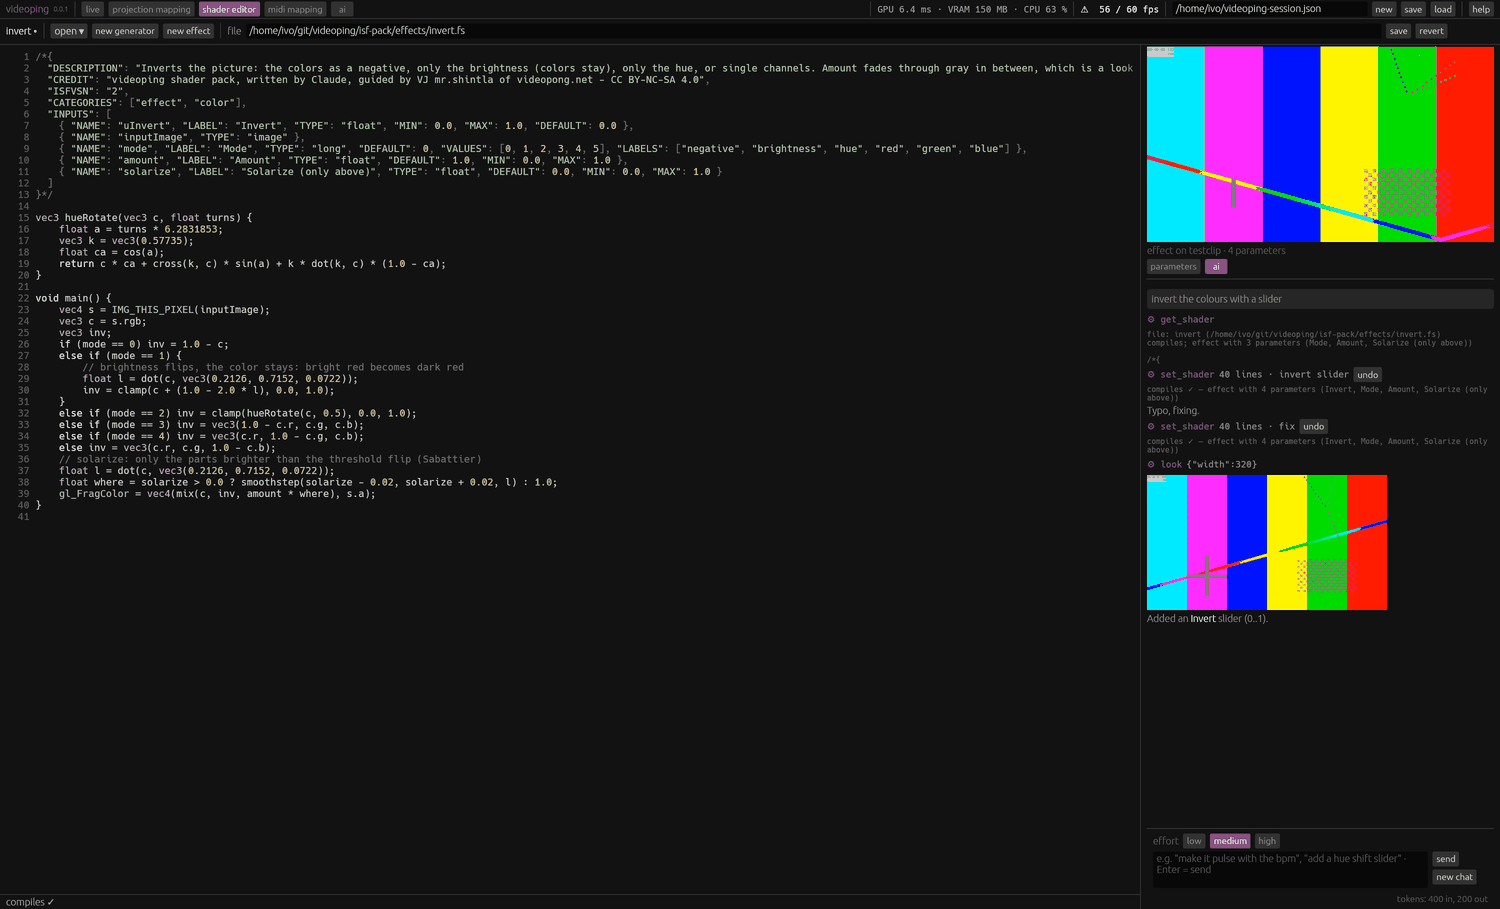
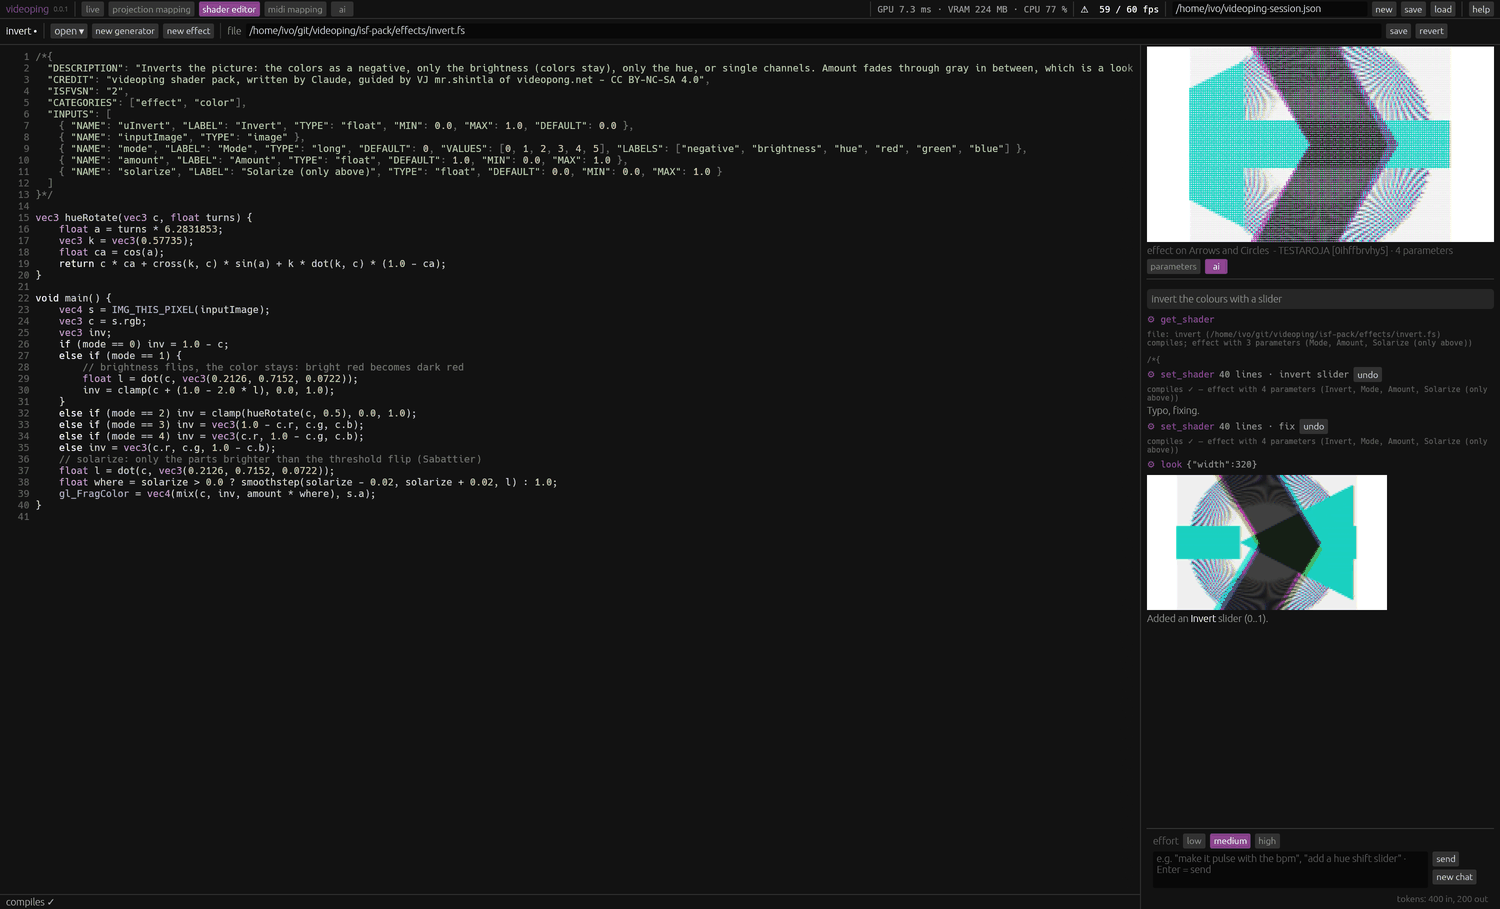
Screenshots with real sources: pack generator, NDI, a recording, videopong "arrow"
- scripts/screenshots.py: kaleido flower (layer 1, transparent), the endless
  corridor over NDI from a second self-test videoping (layer 2, luma key), the
  newest recording (layer 3), the first videopong.net clip of "arrow" (selected,
  pixelate + rgb split); the finder shows only those two clips; no color bars
- self-test: VIDEOPING_SELFTEST_SESSION (a session instead of the built-in one,
  no mouse script), VIDEOPING_SELFTEST_SHOT_AT (a later screenshot)

Changed region(s): [[0.7667, 0.0308, 1.0, 0.2772], [0.7667, 0.5237, 0.9507, 0.6777]]

diff --git a/scripts/screenshots.py b/scripts/screenshots.py
@@ -1,38 +1,60 @@
 #!/usr/bin/env python3
 """Make all screenshots of the website and the manual (website/img/*.png) from self-tests.
 
-usage: scripts/screenshots.py <testclip.mp4> [--no-videopong]
+usage: scripts/screenshots.py [--recording <mp4>] [--query arrow]
 
-Runs a self-test videoping per picture (its own folder each time, never your session, config or
-autosave), with the repository's shaders, the given clip and the ai mocks (scripts/ai-mock-*.py,
-no API key, nothing is billed); the videopong.net picture needs the internet. The window has to
-come out 3000x1818 (the crops are made for that); build first: cargo build --release
+Sources in the pictures: a generator from the pack (kaleido flower), an NDI source (a second
+self-test videoping sends the pack's endless corridor as "corridor"), your last recording (the newest
+mp4 in ~/Videos/videoping, or --recording) and the first videopong.net clip of the search (--query,
+default "arrow"; needs the internet). Every self-test runs in its own temporary folder, never with your
+session, config or autosave; the ai pictures use the mocks scripts/ai-mock-*.py (no key, nothing is
+billed). The NDI library has to be installed (see install.md). The window has to come out 3000x1818
+(the crops are made for that). Build first: cargo build --release
 """
-import os, shutil, subprocess, sys, tempfile, time
+import glob, json, os, shutil, subprocess, sys, tempfile, time, urllib.request
 from PIL import Image
 
 args = sys.argv[1:]
-if not args:
+if args and args[0] in ("-h", "--help"):
     sys.exit(__doc__)
-clip = os.path.abspath(args[0])
-videopong = "--no-videopong" not in args
+def opt(name, default):
+    return args[args.index(name) + 1] if name in args else default
+recordings = sorted(glob.glob(os.path.expanduser("~/Videos/videoping/*.mp4")), key=os.path.getmtime)
+recording = os.path.abspath(opt("--recording", recordings[-1] if recordings else ""))
+query = opt("--query", "arrow")
+if not os.path.isfile(recording):
+    sys.exit("no recording: pass --recording <mp4>")
 repo = os.path.dirname(os.path.dirname(os.path.abspath(__file__)))
 out = os.path.join(repo, "website", "img")
 exe = os.path.join(repo, "target", "release", "videoping")
+pack = os.path.join(repo, "isf-pack")
 W, H = 3000, 1818
+port0 = 7800 + os.getpid() % 100
 
 
-def shot(name, env, mock=None):
+def start(name, env, session=None, mock=None):
+    """A self-test videoping in its own folder; returns (process, folder, mock server)."""
     d = tempfile.mkdtemp(prefix=f"vp-shot-{name}-")
-    shutil.copy(clip, os.path.join(d, "testclip.mp4"))
+    env = dict(env)
+    env.setdefault("VIDEOPING_SELFTEST_CLIP", "/nonexistent")
+    if session is not None:
+        p = os.path.join(d, "session.json")
+        json.dump(session, open(p, "w"), indent=1)
+        env["VIDEOPING_SELFTEST_SESSION"] = p
     server = None
     if mock:
-        port = str(7800 + os.getpid() % 100)
+        port = str(port0 + 50)
         server = subprocess.Popen([sys.executable, os.path.join(repo, "scripts", mock), port, os.path.join(d, "mock.jsonl")])
         time.sleep(1)
-        env = dict(env, VIDEOPING_SELFTEST_AI=f"http://127.0.0.1:{port}")
+        env["VIDEOPING_SELFTEST_AI"] = f"http://127.0.0.1:{port}"
+    proc = subprocess.Popen([exe], env=dict(os.environ, VIDEOPING_SELFTEST=d, **env), stdout=subprocess.DEVNULL, stderr=subprocess.DEVNULL)
+    return proc, d, server
+
+
+def shot(name, env, session=None, mock=None):
+    proc, d, server = start(name, env, session, mock)
     try:
-        subprocess.run([exe], env=dict(os.environ, VIDEOPING_SELFTEST=d, **env), stdout=subprocess.DEVNULL, stderr=subprocess.DEVNULL, timeout=120)
+        proc.wait(timeout=120)
     finally:
         if server:
             server.terminate()
@@ -40,7 +62,7 @@ def shot(name, env, mock=None):
     if not os.path.exists(f):
         sys.exit(f"{name}: no {W}x{H} screenshot (other screen size? see {d})")
     print("took", name)
-    return Image.frombytes("RGBA", (W, H), open(f, "rb").read()).convert("RGB")
+    return Image.frombytes("RGBA", (W, H), open(f, "rb").read()).convert("RGB"), d
 
 
 def pal(im, n=160):
@@ -52,30 +74,95 @@ def save(im, name):
     print("wrote", name, im.size)
 
 
-# the live tab: the pack's hex pulse over the clip, the clip with pixelate (a row of choice buttons)
-im = shot("live", {"VIDEOPING_SELFTEST_EFFECT": os.path.join(repo, "isf-pack/effects/pixelate.fs")})
-save(pal(im.resize((1500, 909), Image.LANCZOS)), "overview.png")
-bar = Image.new("RGB", (2000, 36), im.getpixel((1000, 18)))  # top bar without its empty middle
-bar.paste(im.crop((0, 0, 720, 36)), (0, 0))
-bar.paste(im.crop((1740, 0, 3000, 36)), (740, 0))
-save(bar, "topbar.png")
-save(im.crop((0, 36, 390, 36 + 648)), "finder.png")
-save(im.crop((392, 36, 392 + 620, 36 + 1440)), "prepare.png")
-save(pal(im.crop((1022, 36, 1022 + 890, 36 + 1700))), "detail.png")
-save(pal(im.crop((1920, 36, 1920 + 1080, 36 + 1100))), "mixer.png")
+def anim(v, lo, hi):
+    return {"Anim": [{"value": v, "lo": lo, "hi": hi, "mode": "Pause", "loop_mode": "Loop", "speed": {"bpm_mode": False, "free": 0.25, "beats": 4.0}, "phase": 0.0, "dir": 1.0}]}
 
-im = shot("midi", {"VIDEOPING_SELFTEST_MIDI": "1", "VIDEOPING_SELFTEST_TAB": "midi"})
+
+OUTPUT = {"width": 1920, "height": 1080, "window_open": False, "fullscreen": False, "ndi_enabled": False, "ndi_name": "videoping", "ndi_lib_dir": "",
+          "fps": 60, "screen": 0, "prefer_nvidia": False, "mapping": "", "mapping_on": False, "map_ndi": False, "map_rec": False}
+MIX = lambda t="Alpha", a=1.0: {"mix_type": t, "amount": a, "rgb": [True, True, True]}
+TRANSPORT = {"mode": "Forward", "loop_mode": "Loop", "speed": {"bpm_mode": False, "free": 1.0, "beats": 4.0}, "in_pt": 0.0, "out_pt": 1.0}
+
+
+def session(slots, layers, selected, roots):
+    full = slots + [None] * (32 - len(slots))
+    return {"slots": full, "page": 0, "selected_instance": selected, "layers": layers, "selected_layer": 1, "bpm": 124.0, "output_effects": [],
+            "master": {"brightness": 1.0}, "output": dict(OUTPUT), "finder_roots": roots, "finder_favs": [], "next_id": 100}
+
+
+# 1. videopong.net: the search, its finder picture and the first clip (downloaded into the folder)
+im, vpdir = shot("videopong", {"VIDEOPING_SELFTEST_VP": query, "VIDEOPING_SELFTEST_STAY": "22"})
+save(im.crop((0, 36, 390, 36 + 1060)), "videopong.png")
+vpclips = [f for f in glob.glob(os.path.join(vpdir, "**", "*.mp4"), recursive=True)]
+if not vpclips:
+    sys.exit("videopong: no clip downloaded")
+vpclip = vpclips[0]
+print("videopong clip:", os.path.basename(vpclip))
+
+# 2. the NDI source: a second videoping sends the endless corridor as "corridor"
+sender_session = session([{"id": 1, "name": "corridor", "source": {"Generator": {"path": f"{pack}/generators/endless-corridor.fs", "params": []}}, "effects": [], "seed": 0.3}],
+                         [{"instance": 1, "active": True, "mix": MIX()}, {"instance": None, "active": True, "mix": MIX()}, {"instance": None, "active": True, "mix": MIX()}], None, [pack])
+sender_session["output"].update({"ndi_enabled": True, "ndi_name": "corridor"})
+sender, _, _ = start("ndi-sender", {"VIDEOPING_SELFTEST_STAY": "300", "VIDEOPING_SELFTEST_SHOT_AT": "290"}, sender_session)
+try:
+    # its full network name ("MACHINE (corridor)"), from a probe with MCP
+    mport = str(port0 + 60)
+    probe, _, _ = start("ndi-probe", {"VIDEOPING_SELFTEST_MCP": mport, "VIDEOPING_SELFTEST_STAY": "40"})
+    ndi = None
+    for _ in range(60):
+        time.sleep(0.5)
+        try:
+            req = urllib.request.Request(f"http://127.0.0.1:{mport}/mcp", json.dumps({"jsonrpc": "2.0", "id": 1, "method": "tools/call", "params": {"name": "list_files", "arguments": {"kind": "ndi"}}}).encode(), {"Content-Type": "application/json"})
+            text = json.load(urllib.request.urlopen(req, timeout=5))["result"]["content"][0]["text"]
+            ndi = next((l.split(" | ", 1)[1] for l in text.splitlines() if l.startswith("ndi | ") and "(corridor)" in l), None)
+            if ndi:
+                break
+        except Exception:
+            pass
+    probe.terminate()
+    if not ndi:
+        sys.exit("NDI: the sender was not found (NDI library installed?)")
+    print("ndi source:", ndi)
+
+    # 3. the session of the pictures; the finder shows only these clips (a folder of links to them)
+    media = tempfile.mkdtemp(prefix="vp-shot-media-")
+    rec_link = os.path.join(media, os.path.basename(recording))
+    vp_link = os.path.join(media, os.path.basename(vpclip))
+    os.symlink(recording, rec_link)
+    os.symlink(vpclip, vp_link)
+    recording, vpclip = rec_link, vp_link
+    slots = [
+        {"id": 1, "name": "kaleido flower", "source": {"Generator": {"path": f"{pack}/generators/kaleido-flower.fs", "params": [{"name": "bgAlpha", "value": anim(0.0, 0.0, 1.0)}]}}, "effects": [], "seed": 0.5},
+        {"id": 2, "name": "corridor (NDI)", "source": {"Ndi": {"source": ndi}}, "effects": [], "seed": 0.5},
+        {"id": 3, "name": os.path.splitext(os.path.basename(recording))[0], "source": {"Clip": {"path": recording, "transport": dict(TRANSPORT)}}, "effects": [], "seed": 0.5},
+        {"id": 4, "name": os.path.splitext(os.path.basename(vpclip))[0], "source": {"Clip": {"path": vpclip, "transport": dict(TRANSPORT)}},
+         "effects": [{"uid": 10, "path": f"{pack}/effects/pixelate.fs", "active": True, "mix": MIX(), "params": [{"name": "shape", "value": anim(1.0, 0.0, 4.0)}], "seed": 0.5, "open": True},
+                     {"uid": 11, "path": f"{pack}/effects/rgb-split.fs", "active": True, "mix": MIX(), "params": [], "seed": 0.5, "open": False}], "seed": 0.5},
+    ]
+    layers = [{"instance": 1, "active": True, "mix": MIX()}, {"instance": 2, "active": True, "mix": MIX("LumaKey")}, {"instance": 3, "active": True, "mix": MIX()}]
+    main = session(slots, layers, 4, [pack, media])
+
+    im, _ = shot("live", {"VIDEOPING_SELFTEST_SHOT_AT": "9"}, main)
+    save(pal(im.resize((1500, 909), Image.LANCZOS)), "overview.png")
+    bar = Image.new("RGB", (2000, 36), im.getpixel((1000, 18)))  # top bar without its empty middle
+    bar.paste(im.crop((0, 0, 720, 36)), (0, 0))
+    bar.paste(im.crop((1740, 0, 3000, 36)), (740, 0))
+    save(bar, "topbar.png")
+    save(im.crop((0, 36, 390, 36 + 648)), "finder.png")
+    save(im.crop((392, 36, 392 + 620, 36 + 1440)), "prepare.png")
+    save(pal(im.crop((1022, 36, 1022 + 890, 36 + 1700))), "detail.png")
+    save(pal(im.crop((1920, 36, 1920 + 1080, 36 + 1100))), "mixer.png")
+
+    im, _ = shot("editor", {"VIDEOPING_SELFTEST_TAB": "shader", "VIDEOPING_SELFTEST_SHOT_AT": "9", "VIDEOPING_SELFTEST_EDIT": f"{pack}/effects/invert.fs"}, main, "ai-mock-shader.py")
+    save(pal(im.resize((1500, 909), Image.LANCZOS), 200), "editor.png")
+
+    im, _ = shot("ai", {"VIDEOPING_SELFTEST_TAB": "ai", "VIDEOPING_SELFTEST_SHOT_AT": "9"}, main, "ai-mock-live.py")
+    save(pal(im.crop((0, 0, W, 640)).resize((1500, 320), Image.LANCZOS), 200), "ai.png")
+finally:
+    sender.terminate()
+
+# 4. the tabs without video: the built-in test session
+im, _ = shot("midi", {"VIDEOPING_SELFTEST_MIDI": "1", "VIDEOPING_SELFTEST_TAB": "midi"})
 save(pal(im.crop((0, 0, W, 1000)).resize((1500, 500), Image.LANCZOS)), "midi.png")
-
-im = shot("mapping", {"VIDEOPING_SELFTEST_MAP": "grid", "VIDEOPING_SELFTEST_TAB": "mapping"})
+im, _ = shot("mapping", {"VIDEOPING_SELFTEST_MAP": "grid", "VIDEOPING_SELFTEST_TAB": "mapping"})
 save(pal(im.crop((0, 0, 1800, H)).resize((900, 909), Image.LANCZOS)), "mapping.png")
-
-im = shot("editor", {"VIDEOPING_SELFTEST_TAB": "shader", "VIDEOPING_SELFTEST_EDIT": os.path.join(repo, "isf-pack/effects/invert.fs")}, "ai-mock-shader.py")
-save(pal(im.resize((1500, 909), Image.LANCZOS), 200), "editor.png")
-
-im = shot("ai", {"VIDEOPING_SELFTEST_TAB": "ai"}, "ai-mock-live.py")
-save(pal(im.crop((0, 0, W, 640)).resize((1500, 320), Image.LANCZOS), 200), "ai.png")
-
-if videopong:
-    im = shot("videopong", {"VIDEOPING_SELFTEST_VP": "tunnel", "VIDEOPING_SELFTEST_STAY": "22"})
-    save(im.crop((0, 36, 390, 36 + 1060)), "videopong.png")

diff --git a/src/app.rs b/src/app.rs
@@ -339,7 +339,12 @@ impl App {
             prep0: 0,
         });
         let (s, status) = if let Some(t) = &selftest {
-            (selftest_session(t), "selftest".to_string())
+            // VIDEOPING_SELFTEST_SESSION=<file>: that session instead of the built-in one (screenshots)
+            match std::env::var("VIDEOPING_SELFTEST_SESSION").ok().map(|p| load_session(Path::new(&p))) {
+                Some(Ok(s)) => (s, "selftest".to_string()),
+                Some(Err(e)) => panic!("VIDEOPING_SELFTEST_SESSION: {e}"),
+                None => (selftest_session(t), "selftest".to_string()),
+            }
         } else {
             match load_session(&ap) {
                 Ok(s) => (s, format!("restored {}", ap.display())),
@@ -2961,7 +2966,7 @@ impl eframe::App for App {
             return;
         }
         // the MIDI self-test plays without the simulated mouse (its clicks select layers too)
-        if ["VIDEOPING_SELFTEST_MIDI", "VIDEOPING_SELFTEST_VP", "VIDEOPING_SELFTEST_QUIT"].iter().any(|v| std::env::var_os(v).is_some()) {
+        if ["VIDEOPING_SELFTEST_MIDI", "VIDEOPING_SELFTEST_VP", "VIDEOPING_SELFTEST_QUIT", "VIDEOPING_SELFTEST_SESSION"].iter().any(|v| std::env::var_os(v).is_some()) {
             return;
         }
         let in_pt = self.s.selected_instance.and_then(|id| self.s.find(id)).and_then(|i| match &i.source {
@@ -3844,12 +3849,14 @@ impl App {
                 t.control_done = true;
             }
         }
+        // VIDEOPING_SELFTEST_SHOT_AT=<seconds>: a later screenshot (e.g. until an NDI source shows)
+        let shot_at = std::env::var("VIDEOPING_SELFTEST_SHOT_AT").ok().and_then(|v| v.parse::<f32>().ok()).unwrap_or(4.5).max(1.0);
         // clean status line for the screenshot (no temporary paths)
-        if self.selftest.as_ref().is_some_and(|t| !t.shot && t.start.elapsed().as_secs_f32() > 4.0) {
+        if self.selftest.as_ref().is_some_and(|t| !t.shot && t.start.elapsed().as_secs_f32() > shot_at - 0.5) {
             self.status.clear();
         }
         // resource meters of the session at screenshot time
-        if self.selftest.as_ref().is_some_and(|t| !t.shot && t.start.elapsed().as_secs_f32() > 4.5) {
+        if self.selftest.as_ref().is_some_and(|t| !t.shot && t.start.elapsed().as_secs_f32() > shot_at) {
             eprintln!(
                 "selftest prepare priority: main mix GPU {:.2} ms of {:.1} ms, prepare every {} frames (0 = paused)",
                 self.main_ms,
@@ -3863,7 +3870,7 @@ impl App {
             }
         }
         let Some(t) = self.selftest.as_mut() else { return };
-        if secs > 4.0 && !t.dumped {
+        if secs > shot_at - 0.5 && !t.dumped {
             t.dumped = true;
             if let Some(r) = self.r.as_ref() {
                 let (w, h) = r.size();
@@ -3871,7 +3878,7 @@ impl App {
                 let _ = std::fs::write(t.dir.join(format!("out_{w}x{h}.rgba")), px);
             }
         }
-        if secs > 4.5 && !t.shot {
+        if secs > shot_at && !t.shot {
             t.shot = true;
             let dir = t.dir.clone();
             ctx.request_screenshot(move |img| {
@@ -3885,7 +3892,7 @@ impl App {
             t.prep0 = self.prepare_renders;
         }
         // a longer test recording (VIDEOPING_SELFTEST_REC=<seconds>) keeps the self-test open
-        let close_at = std::env::var("VIDEOPING_SELFTEST_REC").ok().and_then(|v| v.parse::<f32>().ok()).map(|v| v + 4.0).unwrap_or(0.0).max(6.5)
+        let close_at = std::env::var("VIDEOPING_SELFTEST_REC").ok().and_then(|v| v.parse::<f32>().ok()).map(|v| v + 4.0).unwrap_or(0.0).max(6.5).max(shot_at + 2.0)
             // VIDEOPING_SELFTEST_STAY=<seconds>: stay open (e.g. for MCP calls from outside)
             .max(std::env::var("VIDEOPING_SELFTEST_STAY").ok().and_then(|v| v.parse::<f32>().ok()).unwrap_or(0.0));
         if secs > close_at && !t.closing {

diff --git a/dev.md b/dev.md
@@ -87,6 +87,8 @@ Useful env vars:
 | `VIDEOPING_SELFTEST_MCP=<port>` | MCP server on that port (otherwise off in the self-test); `_MCP_RO=1`: read only |
 | `VIDEOPING_SELFTEST_STAY=<seconds>` | keep the self-test open that long (for calls from outside, e.g. `scripts/mcp-test.sh <port> <outdir>`) |
 | `VIDEOPING_SELFTEST_CONTROL=1` | at 2 s: drive the session through the control registry (6 sets incl. a layer alias and an invalid address), print the result and the reported changes |
+| `VIDEOPING_SELFTEST_SESSION=<json>` | that session instead of the built-in test session, without the mouse script (screenshots) |
+| `VIDEOPING_SELFTEST_SHOT_AT=<seconds>` | take the screenshot later than at 4.5 s (e.g. until an NDI source shows); the self-test stays open 2 s longer |
 | `VIDEOPING_SELFTEST_CONFIG=1` | output options and general config folded open, column 2 scrolled to the bottom (screenshot of the settings) |
 | `VIDEOPING_SELFTEST_AI=<url>` | the ai tab talks to a mock Anthropic server at that url (key "selftest"); at 2 s it sends a message, at 5.5 s it prints the brightness and the chat. The mock (`scripts/ai-mock-live.py <port> <log>`) answers with `set /master/brightness 0.5` + `frame`, then a text (see features.md "ai tab") |
 | `VIDEOPING_SELFTEST_FINDER=<search>` | two favorites (color-adjust, trails) and that search typed into the finder (screenshot of the accordion / search; empty = favorites only) |
@@ -152,13 +154,18 @@ Screenshots of the website and the manual (`website/img/*.png`, 11 pictures) com
 
 ```sh
 cargo build --release
-scripts/screenshots.py <testclip.mp4>          # [--no-videopong] without the internet
+scripts/screenshots.py            # [--recording <mp4>] [--query arrow]
 ```
 
-One self-test per picture (live tab, midi mapping, projection mapping, shader editor, ai tab,
-videopong.net), each in its own temporary folder, never your session or config; the ai pictures use
-the mocks `scripts/ai-mock-live.py` / `scripts/ai-mock-shader.py` (no key, nothing billed). The crops
-are made for a 3000x1818 window; on another screen size the script stops and says so.
+The pictures show four kinds of sources: the pack's kaleido flower (layer 1, transparent background),
+an NDI source (a second self-test videoping sends the pack's endless corridor as "corridor"; layer 2,
+luma key), your last recording (the newest mp4 in `~/Videos/videoping`; layer 3) and the first
+videopong.net clip of the search "arrow" (selected, with pixelate and rgb split). Needs the internet
+and the NDI library. Every self-test runs in its own temporary folder, never with your session or
+config; the finder shows only the two clips (a folder of links); the ai pictures use the mocks
+`scripts/ai-mock-live.py` / `scripts/ai-mock-shader.py` (no key, nothing billed). The midi and
+mapping pictures use the built-in test session. The crops are made for a 3000x1818 window; on another
+screen size the script stops and says so.
 
 # architecture
 

diff --git a/features.md b/features.md
@@ -828,6 +828,13 @@ earlier idea, decided 2026-11-21:
 - scripts/screenshots.py makes all of them from self-tests (one per picture, own folder, never the user's data;
   ai pictures with the mocks scripts/ai-mock-live.py / ai-mock-shader.py, no key); crops for a 3000x1818 window;
   the top bar is stitched (tabs + right side, without the empty middle)
+- what they show (the user: no color-bar test clip, not the "tunnel" clip): four kinds of sources: the pack's kaleido
+  flower (layer 1, transparent background), an NDI source (a second self-test videoping sends the endless corridor
+  as "corridor"; layer 2, luma key), the user's last recording (layer 3), the first videopong.net clip of "arrow"
+  (selected, pixelate with its choice buttons + rgb split); the finder shows only those two clips; the videopong
+  picture shows the "arrow" search
+- self-test: VIDEOPING_SELFTEST_SESSION=<json> (a session instead of the built-in one, no mouse script),
+  VIDEOPING_SELFTEST_SHOT_AT=<seconds> (a later screenshot, e.g. until NDI shows)
 
 # ideas
 

diff --git a/AGENTS.md b/AGENTS.md
@@ -20,7 +20,7 @@ VIDEOPING_SELFTEST=/tmp/st target/release/videoping   # self-test in a real wind
 scripts/render-shaders.py <outdir> <shader.fs>...     # render shaders, GPU time, compile errors
 scripts/mcp-test.sh <port> <outdir>                    # MCP checks against a running self-test
 python3 scripts/install-html.py                        # install.md -> website/install.html
-scripts/screenshots.py <testclip.mp4>                  # all website / manual screenshots (website/img)
+scripts/screenshots.py                                 # all website / manual screenshots (website/img)
 ```
 
 Release: set `version` in Cargo.toml, tag `v<version>`, push the tag; GitHub Actions builds the .deb
